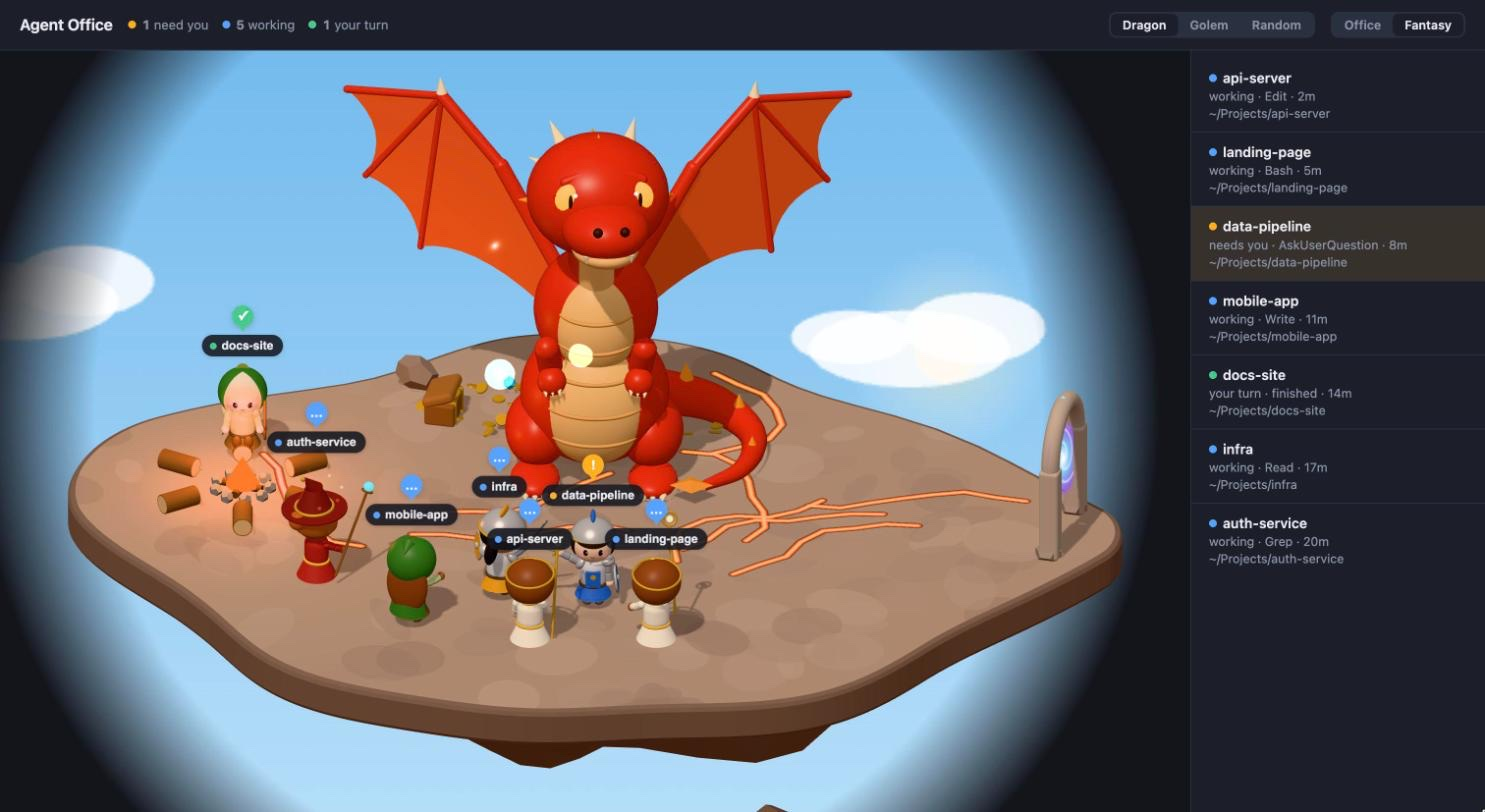
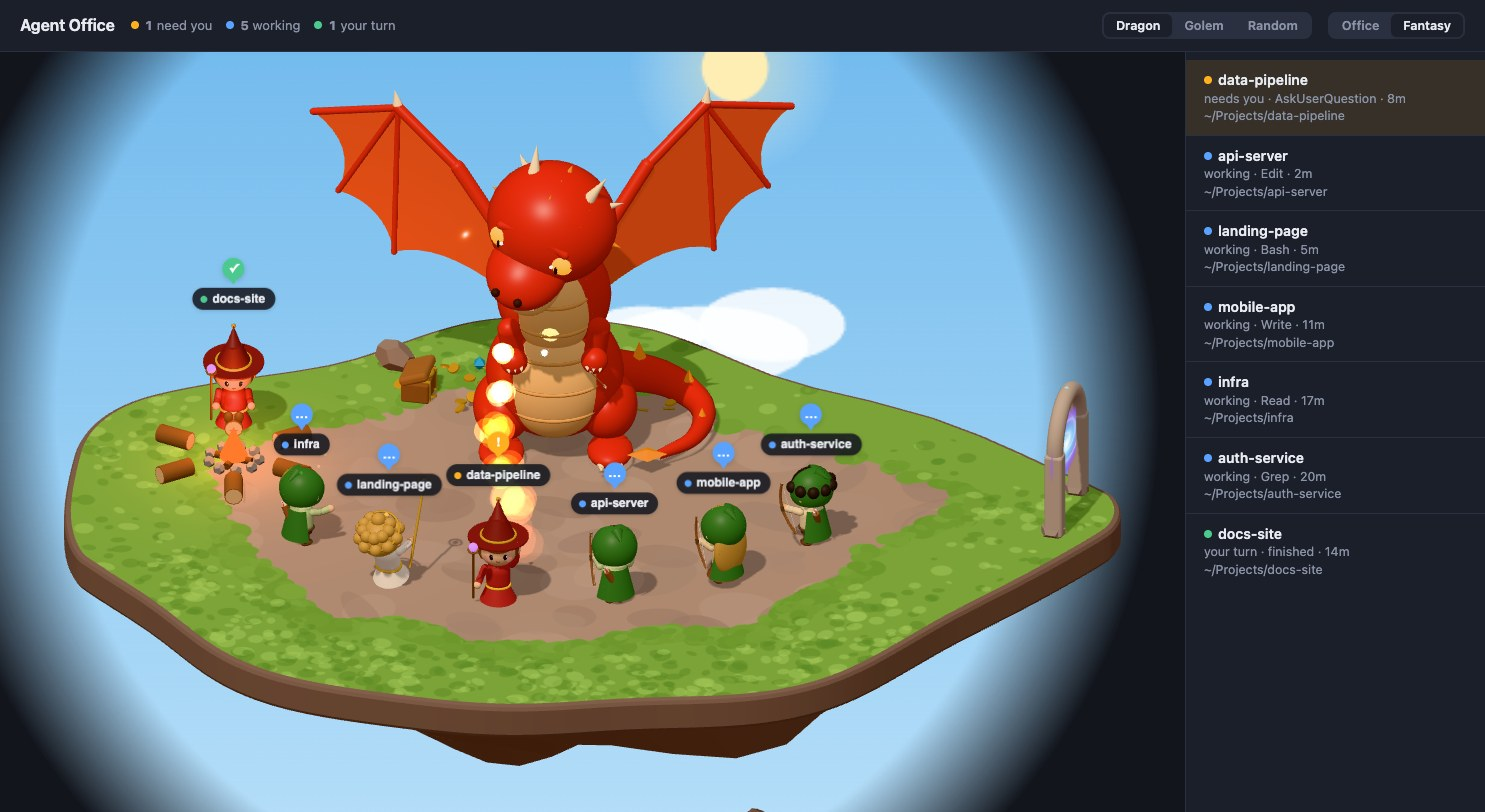
Fantasy island: grass around the edge instead of lava cracks
The stone floor keeps its flagstones but loses the glowing lava cracks,
along with the floor's emissive glow and pulse. A band of grass now runs
around the outer edge, following the island's outline, with a soft ragged
border around the stone clearing in the middle. Both Foes share it.

Retakes the README fantasy screenshot.

diff --git a/js/themes/fantasy.js b/js/themes/fantasy.js
@@ -39,7 +39,7 @@ export function createFantasyTheme(ctx) {
   const fx = [];                 // live effects (fireballs, arrows, sparkles, breath)
   let foeName = FOES[ctx.foe] ? ctx.foe : "dragon";
   let foe = null, holder = null, rhythm = null;   // the Foe, the group its recoil moves, and its rhythm state
-  let fireLight = null, flames = [], portalDisc = null, lavaMat = null;
+  let fireLight = null, flames = [], portalDisc = null;
 
   // ---------- sky backdrop ----------
   const skyCv = document.createElement("canvas"); skyCv.width = skyCv.height = 512;
@@ -338,12 +338,10 @@ export function createFantasyTheme(ctx) {
   }
   function rng(seed) { let s = seed >>> 0; return () => ((s = Math.imul(s ^ (s >>> 15), 2246822507) + 0x6d2b79f5 >>> 0) % 100000) / 100000; }
 
-  function islandTexture(r, seed) {
+  function islandTexture(r, seed, hull) {
     const S = 1024, c = document.createElement("canvas"); c.width = c.height = S;
-    const g = c.getContext("2d"), e = document.createElement("canvas"); e.width = e.height = S;
-    const ge = e.getContext("2d"), rnd = rng(seed), px = v => (v / (2 * r) + 0.5) * S;
+    const g = c.getContext("2d"), rnd = rng(seed), px = v => (v / (2 * r) + 0.5) * S, py = v => (0.5 - v / (2 * r)) * S;   // canvas rows run opposite to the texture's v
     g.fillStyle = "#a99487"; g.fillRect(0, 0, S, S);
-    ge.fillStyle = "#000"; ge.fillRect(0, 0, S, S);
     // flagstones
     for (let i = 0; i < 260; i++) {
       const x = rnd() * S, y = rnd() * S, w = 30 + rnd() * 60, h = 24 + rnd() * 50;
@@ -351,23 +349,23 @@ export function createFantasyTheme(ctx) {
       g.beginPath(); g.ellipse(x, y, w / 2, h / 2, rnd() * 3, 0, 7); g.fill();
     }
     g.globalAlpha = 1;
-    // glowing lava cracks
-    const cracks = [];
-    for (let i = 0; i < 9; i++) {
-      const a = rnd() * Math.PI * 2, d = r * (0.25 + rnd() * 0.6);
-      let x = d * Math.cos(a), y = d * Math.sin(a);
-      const pts = [[x, y]];
-      let h = rnd() * Math.PI * 2;
-      for (let k = 0; k < 7; k++) { h += (rnd() - 0.5) * 1.4; x += Math.cos(h) * 0.35; y += Math.sin(h) * 0.35; pts.push([x, y]); }
-      cracks.push(pts);
+    // grass around the edge, a stone clearing in the middle with a wobbly border
+    const inner = hull.map(([x, y]) => { const a = Math.atan2(y, x), k = 0.72 + 0.03 * Math.sin(a * 7 + 2) + 0.02 * Math.sin(a * 13); return [x * k, y * k]; });
+    const trace = (pts, k) => { pts.forEach(([x, y], i) => i ? g.lineTo(px(x * k), py(y * k)) : g.moveTo(px(x * k), py(y * k))); g.closePath(); };
+    g.beginPath(); trace(hull, 1.1); trace(inner, 1); g.fillStyle = "#7cad55"; g.fill("evenodd");
+    const blob = (x, y, rad, col, alpha) => { g.fillStyle = col; g.globalAlpha = alpha; g.beginPath(); g.ellipse(px(x), py(y), rad, rad * (0.6 + rnd() * 0.4), rnd() * 3, 0, 7); g.fill(); };
+    for (let i = 0; i < inner.length * 4; i++) {   // ragged tufts straddling the border
+      const [x, y] = inner[Math.floor(rnd() * inner.length)], k = 0.96 + rnd() * 0.07;
+      blob(x * k, y * k, 5 + rnd() * 10, mix("#7cad55", "#6e9f4a", rnd()), 1);
     }
-    for (const [ctx2, col, w] of [[g, "#5a2a1e", 9], [g, "#ff8a2a", 4], [ge, "#ff6a1a", 7], [ge, "#ffd36a", 3]]) {
-      ctx2.strokeStyle = col; ctx2.lineWidth = w; ctx2.lineCap = ctx2.lineJoin = "round";
-      for (const pts of cracks) { ctx2.beginPath(); pts.forEach(([x, y], i) => i ? ctx2.lineTo(px(x), px(y)) : ctx2.moveTo(px(x), px(y))); ctx2.stroke(); }
+    for (let i = 0; i < 900; i++) {   // lighter and darker tufts across the grass
+      const [x, y] = hull[Math.floor(rnd() * hull.length)], k = 0.76 + rnd() * 0.3;
+      blob(x * k, y * k, 3 + rnd() * 7, rnd() < 0.5 ? "#9fcf6e" : "#5f9244", 0.5);
     }
-    const tex = own(new THREE.CanvasTexture(c)), emi = own(new THREE.CanvasTexture(e));
-    tex.colorSpace = emi.colorSpace = THREE.SRGBColorSpace; tex.anisotropy = 4;
-    return { tex, emi };
+    g.globalAlpha = 1;
+    const tex = own(new THREE.CanvasTexture(c));
+    tex.colorSpace = THREE.SRGBColorSpace; tex.anisotropy = 4;
+    return tex;
   }
 
   function clear() {
@@ -416,11 +414,10 @@ export function createFantasyTheme(ctx) {
     hull.forEach(([x, y], i) => i ? shape.lineTo(x, y) : shape.moveTo(x, y));
     const slab = new THREE.ExtrudeGeometry(shape, { depth: 0.32, bevelEnabled: true, bevelThickness: 0.06, bevelSize: 0.08, bevelSegments: 2, curveSegments: 4 });
     slab.rotateX(Math.PI / 2);   // shape x,y -> world x,z; extrudes downward
-    const { tex, emi } = islandTexture(Ri, 99);
-    const topM = own(new THREE.MeshStandardMaterial({ map: tex, emissiveMap: emi, emissive: 0xffffff, emissiveIntensity: 0.9, roughness: 0.9 }));
-    lavaMat = topM;
+    const tex = islandTexture(Ri, 99, hull);
+    const topM = own(new THREE.MeshStandardMaterial({ map: tex, roughness: 0.9 }));
     const map = t => { t.repeat.set(1 / (2 * Ri), 1 / (2 * Ri)); t.offset.set(0.5, 0.5); t.wrapS = t.wrapT = THREE.ClampToEdgeWrapping; };
-    map(tex); map(emi);
+    map(tex);
     const top = mesh(slab, [topM, mat("#7d6a62", 0.9)], ix, -0.06, iy); top.castShadow = false;
     // underside: jagged rock tapering to a point, following the island's outline
     const ring = [], step = Math.max(1, Math.floor(hull.length / 22));
@@ -591,7 +588,6 @@ export function createFantasyTheme(ctx) {
     if (portalDisc) portalDisc.rotation.z = -t * 1.2 * m;
     flames.forEach(f => { const k = 1 + (0.12 * Math.sin(t * 13 + f.userData.i * 2) + 0.08 * Math.sin(t * 23 + f.userData.i)) * m; f.scale.set(1 / Math.sqrt(k), k, 1 / Math.sqrt(k)); f.position.y = 0.08 + f.userData.h * k / 2; });
     if (fireLight) fireLight.intensity = (4.2 + 0.8 * Math.sin(t * 11) * m) * (1 + 0.6 * nightness(hourNow()));
-    if (lavaMat) lavaMat.emissiveIntensity = 0.75 + 0.25 * Math.sin(t * 1.7) * m;
 
     // fighters
     const fighters = [...ents.values()].filter(e => e.fig && e.phase === "seated" && e.data.state === "working" && !e.outside);
